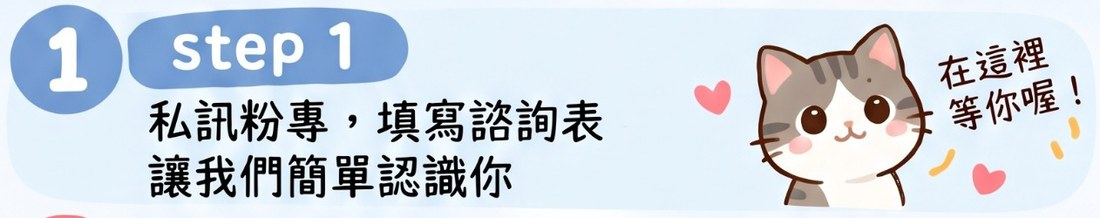
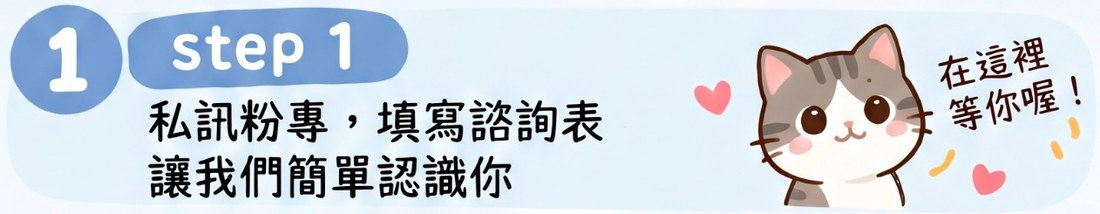
切圖交界再退 4px，避免沾到下一條的圓圈
下一條的數字圓圈突出到只差一個像素的位置，JPEG 柔邊會暈開，
使上一條的底部沾到一點下一條的顏色。底部改為停在下一條起點
前 4px，五個交界都驗證乾淨且圓圈完整。

diff --git a/adopt.html b/adopt.html
@@ -64,7 +64,7 @@
     <!-- 五個步驟用設計稿的原圖。圖裡的文字搜尋引擎讀不到，所以寫進 alt。
          要改文字就得重做圖，設計稿原檔在「設計稿/認養流程_設計稿_v2.jpg」。 -->
     <ol class="flow">
-      <li><img src="images/step-1.jpg?v=eeb34be9" alt="step 1：私訊粉專，填寫諮詢表，讓我們簡單認識你" width="1100" height="218"></li>
+      <li><img src="images/step-1.jpg?v=1d9b2e9c" alt="step 1：私訊粉專，填寫諮詢表，讓我們簡單認識你" width="1100" height="214"></li>
       <li><img src="images/step-2.jpg?v=932da8f2" alt="step 2：確認收到粉專回覆後，方可預約賞貓時間" width="1100" height="236" loading="lazy"></li>
       <li><img src="images/step-3.jpg?v=3b18b026" alt="step 3：若有確認想養的貓孩，請務必配合家訪" width="1100" height="246" loading="lazy"></li>
       <li><img src="images/step-4.jpg?v=cd7ef381" alt="step 4：確認認養環境無虞後，預約帶回貓孩的時間" width="1100" height="211" loading="lazy"></li>

diff --git a/tools/切設計稿.py b/tools/切設計稿.py
@@ -83,18 +83,27 @@ def main(src, prefix, skip=0):
     # ---- 第二步：左側量出真正的上下界 ----
     left = has_ink[:, int(W * 0.04):int(W * 0.22)].sum(axis=1)
 
-    bands = []
+    # 先算每一條真正的「頂」：圓圈突出到卡片上方，要往上找
+    tops = []
     for idx, (top, bot) in enumerate(rough):
-        # 往上找時不可以越過上一條的底部，否則會帶到它的圓角
+        # 不可越過上一條的底部，否則會帶到它的圓角
         ceiling = rough[idx - 1][1] + 2 if idx > 0 else 0
         t = top
         while t > ceiling and t > top - 60:
             if left[max(t - 2, 0):t + 2].sum() == 0:
                 break
             t -= 1
-        # 下緣不用找：圓圈只突出卡片的上緣，往下找會吃到下一條的圓圈
-        b = min(bot + 3, H - 1)
-        bands.append((t, b, top, bot))
+        tops.append(t)
+
+    # 再定每一條的「底」。
+    # 下一條的圓圈可能突出到只差一兩個像素的地方，
+    # 所以底部不能單純 +3，必須停在下一條的頂之前，
+    # 否則這一條的底部會帶到下一條圓圈的頭。
+    bands = []
+    for idx, (top, bot) in enumerate(rough):
+        limit = tops[idx + 1] - 4 if idx + 1 < len(tops) else H - 1   # 退 4px：JPEG 柔邊會暈開
+        b = min(bot + 3, limit)
+        bands.append((tops[idx], b, top, bot))
 
     os.makedirs(OUT_DIR, exist_ok=True)
     total = 0.0
